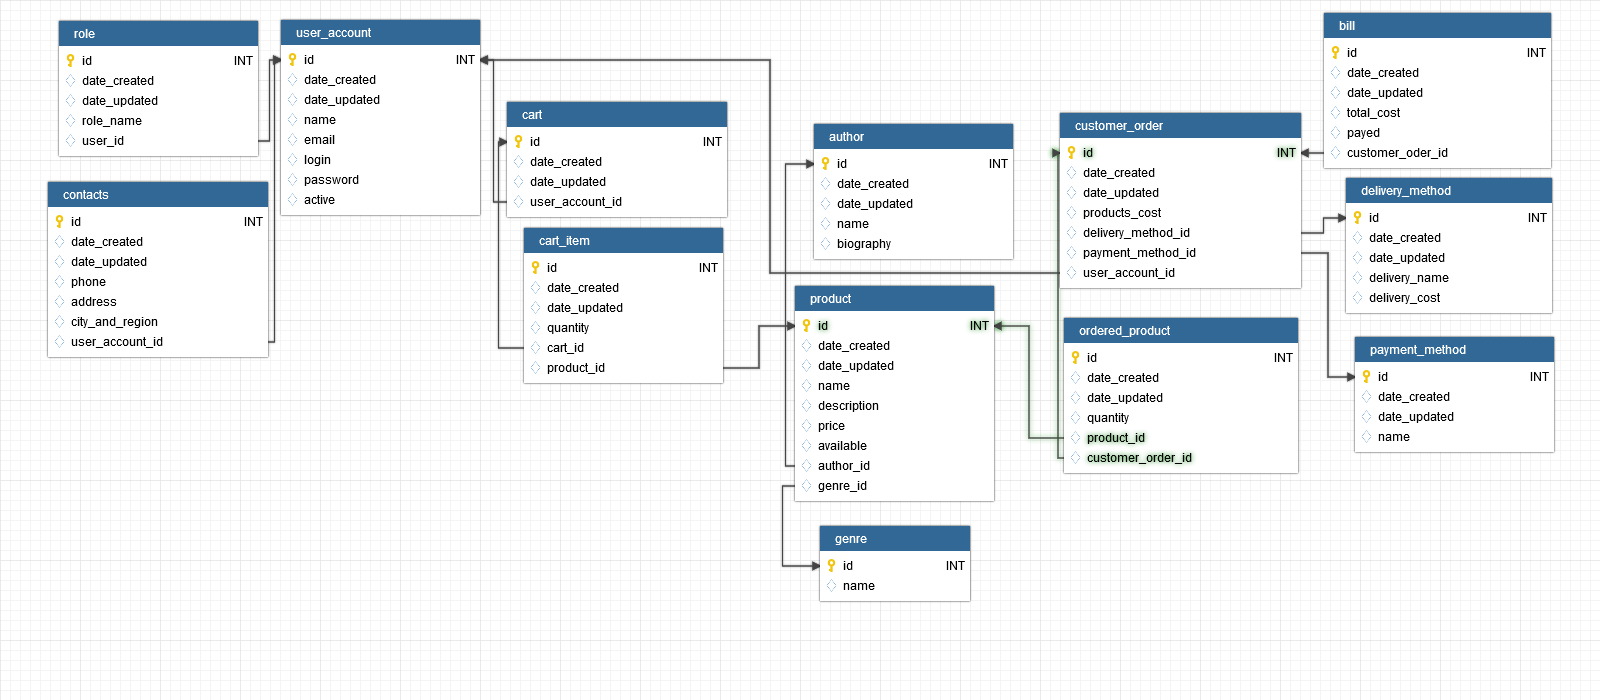
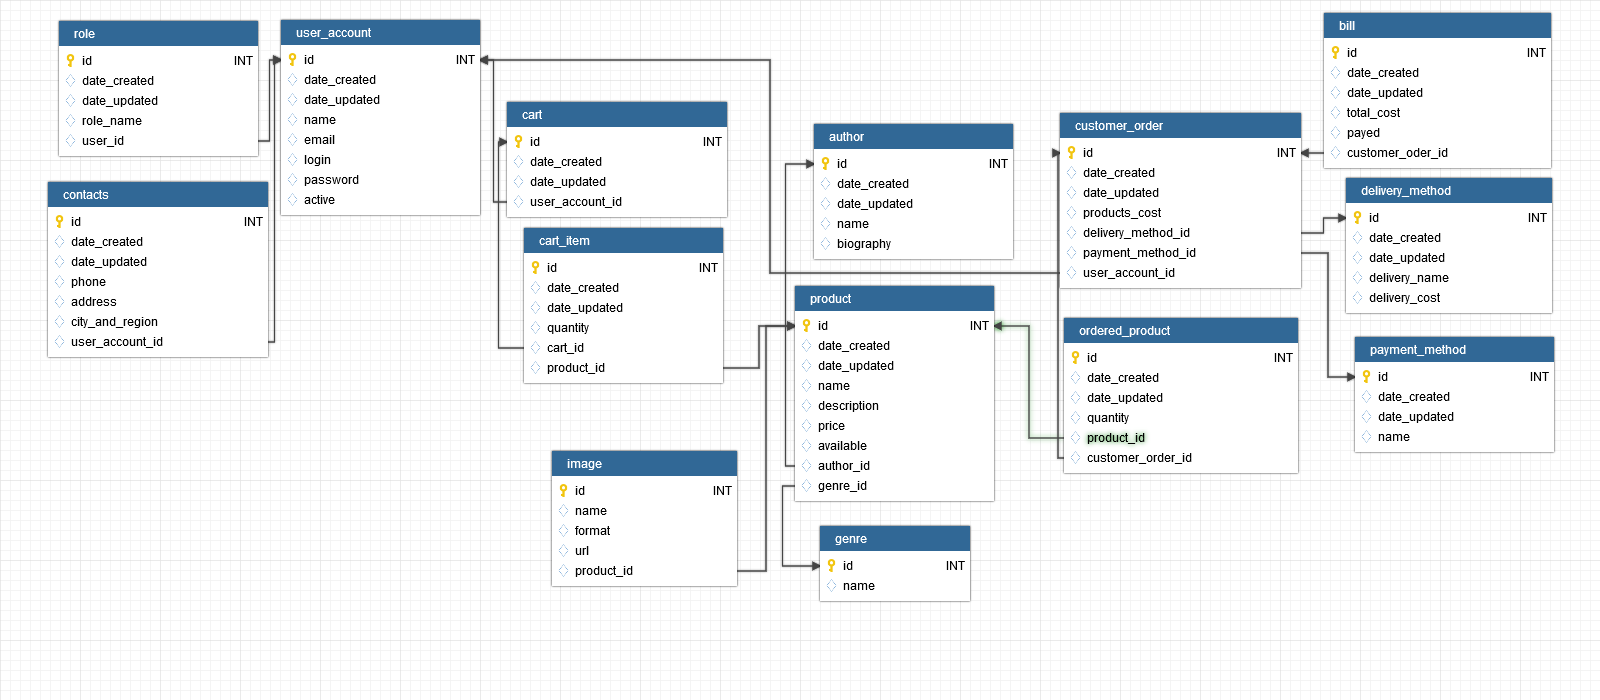
added image entity

diff --git a/online-book-store/src/main/java/kg/online/book/store/entity/Image.java b/online-book-store/src/main/java/kg/online/book/store/entity/Image.java
@@ -1,0 +1,27 @@
+package kg.online.book.store.entity;
+
+import lombok.AllArgsConstructor;
+import lombok.Data;
+import lombok.NoArgsConstructor;
+
+import javax.persistence.*;
+
+@Data
+@NoArgsConstructor
+@AllArgsConstructor
+
+@Entity
+@Table(name = "image")
+public class Image extends BaseEntity {
+
+    @Column(name = "name", nullable = false)
+    private String name;
+    @Column(name = "format", nullable = false)
+    private String format;
+    @Column(name = "url", nullable = false)
+    private String url;
+    @ManyToOne
+    @JoinColumn(name = "product_id", nullable = false)
+    private Product product;
+
+}

diff --git a/online-book-store/src/main/java/kg/online/book/store/entity/Product.java b/online-book-store/src/main/java/kg/online/book/store/entity/Product.java
@@ -5,7 +5,9 @@ import lombok.Data;
 import lombok.NoArgsConstructor;
 
 import javax.persistence.*;
+import java.util.ArrayList;
 import java.util.HashSet;
+import java.util.List;
 import java.util.Set;
 
 @Data
